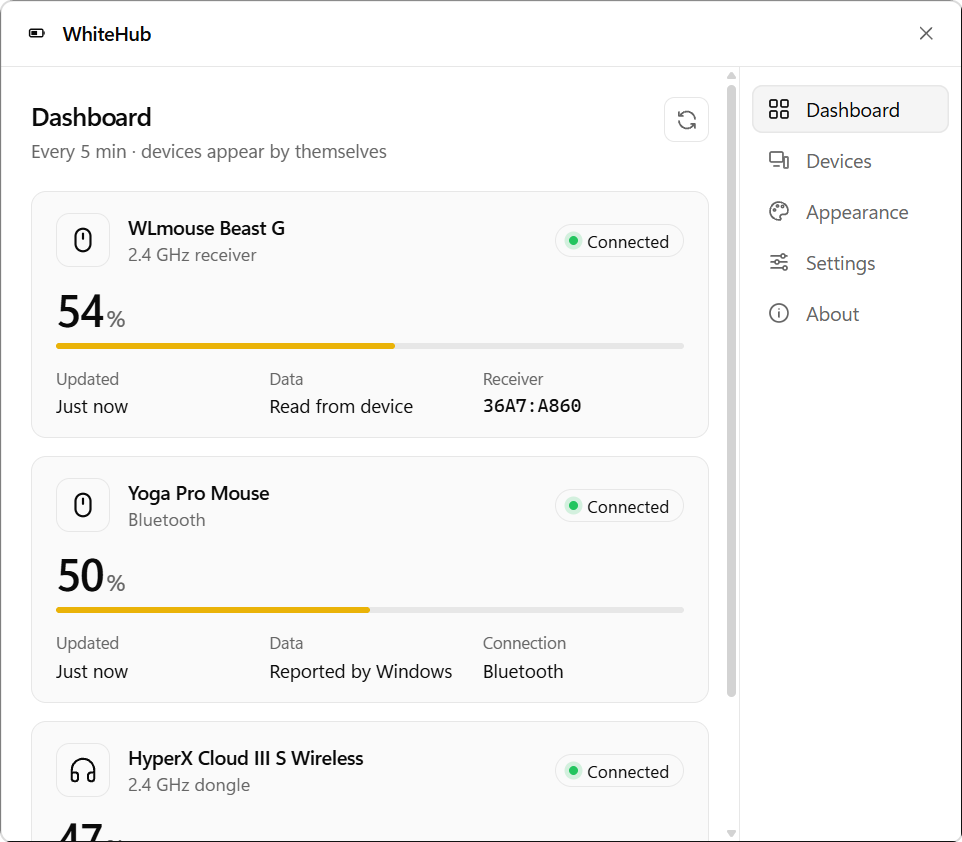
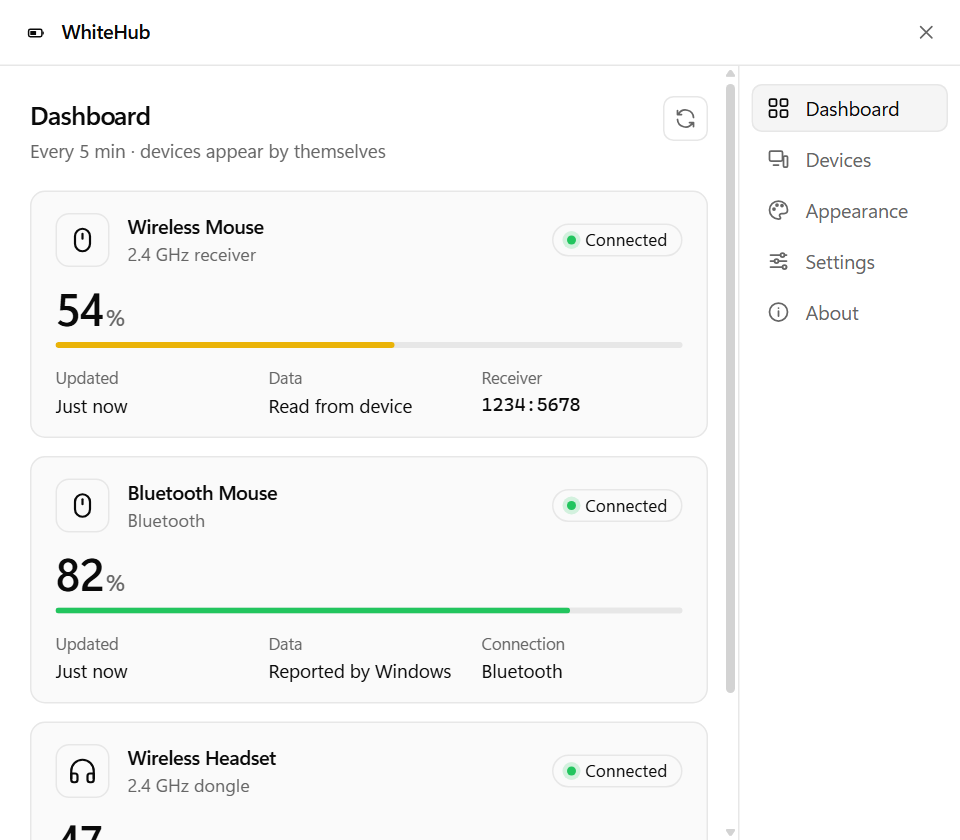
Name device makers only where it is needed
Screenshots use example devices.

diff --git a/src/pages/Devices.tsx b/src/pages/Devices.tsx
@@ -42,7 +42,7 @@ function MissingDevice() {
       <Show when={!state.devices.some((d) => d.id === "wlmouse" && d.known)}>
         <Row
           title="Another WLmouse mouse"
-          hint={'Product ID from the file below: the four characters after "36A7:". Untested. The Beast G battery query is sent to that device.'}
+          hint={'Product ID from the file below: the four characters after "36A7:". Untested. The battery query of the supported model is sent to that device.'}
         >
           <input
             class="input mono narrow"

diff --git a/src/pages/Dashboard.tsx b/src/pages/Dashboard.tsx
@@ -52,7 +52,7 @@ function EmptyState() {
         <p>No device found yet. Connect one, it appears by itself:</p>
         <ul class="empty-list">
           <li>Bluetooth: any device whose battery Windows shows</li>
-          <li>2.4 GHz dongle: WLmouse Beast G, HyperX Cloud III S Wireless</li>
+          <li>2.4 GHz dongle: supported models, see About</li>
           <li>Xbox wireless controllers</li>
         </ul>
         <button type="button" class="link" onClick={() => navigate("devices")}>

diff --git a/src-tauri/src/indicators.rs b/src-tauri/src/indicators.rs
@@ -157,8 +157,8 @@ mod tests {
     fn snap(status: Status, percent: Option<u8>) -> DeviceSnapshot {
         DeviceSnapshot {
             id: "wlmouse".into(),
-            name: "WLmouse Beast G".into(),
-            default_name: "WLmouse Beast G".into(),
+            name: "Mouse".into(),
+            default_name: "Mouse".into(),
             known: true,
             discovered: false,
             kind: DeviceKind::Mouse,

diff --git a/src-tauri/src/battery/provider.rs b/src-tauri/src/battery/provider.rs
@@ -88,7 +88,7 @@ mod tests {
 
     #[test]
     fn product_names_are_cleaned() {
-        assert_eq!(clean_product("WLMOUSE  BEAST G 8K RECEIVER"), "WLMOUSE BEAST G 8K");
+        assert_eq!(clean_product("WIRELESS  MOUSE 8K RECEIVER"), "WIRELESS MOUSE 8K");
         assert_eq!(clean_product("Evil\n2026 INFO fake\u{1b}[0m"), "Evil 2026 INFO fake [0m");
         assert!(clean_product(&"x".repeat(500)).len() <= 80);
     }

diff --git a/src-tauri/src/battery/mod.rs b/src-tauri/src/battery/mod.rs
@@ -55,7 +55,7 @@ pub enum Status {
     /// Battery read successfully on the last attempt.
     Online,
     /// Receiver present, but the device did not answer because it is sleeping (or switched off;
-    /// the WLmouse receiver cannot tell these apart).
+    /// a receiver often cannot tell these apart).
     Asleep,
     /// Receiver present, device reported or appears to be powered off.
     Off,

diff --git a/docs/PROJECT_STATE.md b/docs/PROJECT_STATE.md
@@ -4,7 +4,7 @@ Version 0.2.3, November 2026. Structure: [ARCHITECTURE.md](ARCHITECTURE.md). Rea
 
 ## Working
 
-- Battery and charging of WLmouse Beast G and HyperX Cloud III S Wireless.
+- Battery and charging of the models listed in the [README](../README.md#devices).
 - Automatic discovery of Bluetooth devices whose level Windows knows, and of Xbox controllers in coarse steps.
 - Device list that remembers devices; they can be renamed, forgotten, and given another type.
 - Device request file without serial numbers, addresses or Bluetooth names.
@@ -15,32 +15,32 @@ Version 0.2.3, November 2026. Structure: [ARCHITECTURE.md](ARCHITECTURE.md). Rea
 
 ## Tested on hardware
 
-- WLmouse Beast G, HyperX Cloud III S Wireless and a Bluetooth mouse: level, connecting and disconnecting.
+- The models marked as tested in the README and a Bluetooth mouse: level, connecting and disconnecting.
 - Device request file.
-- Installing 0.2.0 over 0.1.7 and 0.2.1 over 0.2.0.
+- Updates from 0.1.7 to 0.2.3. From 0.2.1 on the autostart entry survived them (log).
 
 ## Not tested
 
-- AirPods, Bluetooth keyboards and headsets
+- Bluetooth keyboards, headsets and earbuds
 - Xbox controllers
-- HyperX dongle `03F0:02CC` and other WLmouse models
-- HyperX headset switched off; its "full" charge state
-- Autostart kept by an update from 0.2.1 or later; autostart after a reboot
+- The models marked as untested in the README
+- Headset switched off; its "full" charge state
+- Autostart after a reboot
 - Tray icon with the logo on the real taskbar
 - Sleep and hibernation
 - Light taskbar, several monitors, auto-hidden taskbar, left-aligned taskbar with many pinned apps
 - Acrylic transparency
-- The vendor's WL MOUSE HUB open at the same time (unit test only)
+- A vendor's program open at the same time (unit test only)
 
 ## Known issues
 
-- A sleeping WLmouse does not report its level; the last value is shown dimmed.
+- A sleeping mouse on its receiver does not report its level; the last value is shown dimmed.
 - Updating from 0.2.0 or older removes the autostart entry once, because the old uninstaller does it; WhiteHub restores it at its next start.
-- About 40 threads were seen in 0.2.0, 10 in an earlier measurement. The cause is unknown; there is no CPU use while idle.
+- 40 to 48 threads were seen since 0.2.0, 10 in an earlier measurement. The cause is unknown; there is no CPU use while idle.
 - The installer is not code-signed.
 - `ttf-parser` is unmaintained, see [SECURITY.md](../SECURITY.md).
 
 ## Next
 
 1. Test the points above.
-2. Logitech HID++ and more headsets.
+2. More 2.4 GHz devices.

diff --git a/README.ru.md b/README.ru.md
@@ -47,6 +47,8 @@
 | **Устройства** | **Оформление** |
 | <img src="assets/screenshots/devices.png" width="400" alt="Страница устройств"> | <img src="assets/screenshots/appearance.png" width="400" alt="Страница оформления"> |
 
+<sub>На снимках примеры устройств.</sub>
+
 </div>
 
 Интерфейс программы на английском.
@@ -69,7 +71,7 @@
 | Bluetooth | Подключите его в Windows. Если заряд виден в *Параметры → Bluetooth и устройства*, его покажет и WhiteHub |
 | Донгл 2.4 GHz поддерживаемой модели | Вставьте донгл и включите устройство |
 | Донгл 2.4 GHz другой модели | Пока не поддерживается: нажмите **Devices → My device is missing → Create file** и [оставьте заявку](../../issues/new?template=device-request.yml) |
-| Другая мышь WLmouse | Введите её Product ID в **Devices → My device is missing** (не проверено) |
+| Другая мышь поддерживаемого производителя | Введите её Product ID в **Devices → My device is missing** (не проверено) |
 | Геймпад Xbox | Подключите его без провода и включите |
 
 ## Устройства
@@ -142,4 +144,4 @@ WhiteHub отправляет только запросы на чтение за
 
 [GPL-3.0](LICENSE), © 2026 whitemollie. Источники протоколов и благодарности: [CREDITS.md](CREDITS.md).
 
-<sub>WhiteHub — независимый проект, не связанный с WLmouse, HyperX и HP.</sub>
+<sub>WhiteHub — независимый проект, не связанный с производителями устройств.</sub>

diff --git a/README.md b/README.md
@@ -47,6 +47,8 @@ No vendor apps in the background. No drivers. No network access.
 | **Devices** | **Appearance** |
 | <img src="assets/screenshots/devices.png" width="400" alt="Devices page"> | <img src="assets/screenshots/appearance.png" width="400" alt="Appearance page"> |
 
+<sub>Shown with example devices.</sub>
+
 </div>
 
 ## Quick start
@@ -67,7 +69,7 @@ There is nothing to search for or add: WhiteHub looks by itself, when it starts 
 | Bluetooth | Connect it in Windows. If *Settings → Bluetooth & devices* shows its battery, WhiteHub shows it too |
 | 2.4 GHz dongle of a supported model | Plug in the dongle and switch the device on |
 | 2.4 GHz dongle of another model | Not supported yet: press **Devices → My device is missing → Create file** and [request it](../../issues/new?template=device-request.yml) |
-| Another WLmouse mouse | Enter its product ID under **Devices → My device is missing** (untested) |
+| Another mouse of a supported vendor | Enter its product ID under **Devices → My device is missing** (untested) |
 | Xbox controller | Connect it wirelessly and switch it on |
 
 ## Devices
@@ -140,4 +142,4 @@ Users only need the installer. Building from source and adding devices: [CONTRIB
 
 [GPL-3.0](LICENSE), © 2026 whitemollie. Protocol sources and credits: [CREDITS.md](CREDITS.md).
 
-<sub>WhiteHub is an independent project. It is not affiliated with or endorsed by WLmouse, HyperX or HP.</sub>
+<sub>WhiteHub is an independent project. It is not affiliated with or endorsed by any device manufacturer.</sub>

diff --git a/CHANGELOG.md b/CHANGELOG.md
@@ -1,9 +1,13 @@
 # What's new
 
+## Unreleased
+
+- Texts in the window name models only where it is needed
+
 ## 0.2.3 — 2026-11-25
 
 - The empty dashboard and "My device is missing" explain which devices appear
-- The product ID of another WLmouse mouse can be entered before one was ever found
+- The product ID of another mouse model can be entered before one was ever found
 - A device type set back to automatic is right even while the device is away
 - The program no longer contains folder names of the build computer
 
@@ -27,7 +31,7 @@
 
 ## 0.1.9 — 2026-11-25
 
-- Only tested devices are queried automatically; other WLmouse models need a product ID entered by hand
+- Only tested devices are queried automatically; other models need a product ID entered by hand
 - Events pushed by a device are rate-limited
 - The installer contains Microsoft's WebView2 bootstrapper instead of downloading it
 
@@ -69,4 +73,4 @@
 
 ## 0.1.0 — 2026-11-24
 
-- First version: WLmouse Beast G and HyperX Cloud III S Wireless, taskbar strip, notifications, themes, autostart
+- First version: one wireless mouse and one headset, taskbar strip, notifications, themes, autostart

diff --git a/docs/DECISIONS.md b/docs/DECISIONS.md
@@ -30,7 +30,7 @@ Sizing the window to its content caused flicker. Longer pages scroll.
 The project builds on GPL-3.0 sources. The credits in [CREDITS.md](../CREDITS.md) must stay.
 
 ### 10. Query only an allowlist of USB IDs, read-only (0.1.9)
-Vendors use their own protocols, and probing unknown hardware is risky. Other WLmouse models need a product ID entered by the user. **Cost:** every other 2.4 GHz device needs its own support.
+Vendors use their own protocols, and probing unknown hardware is risky. Other models of the mouse vendor need a product ID entered by the user. **Cost:** every other 2.4 GHz device needs its own support.
 
 ### 11. Embed the WebView2 bootstrapper (0.1.9)
 The installer carries Microsoft's signed bootstrapper instead of downloading it. **Cost:** a larger installer.
